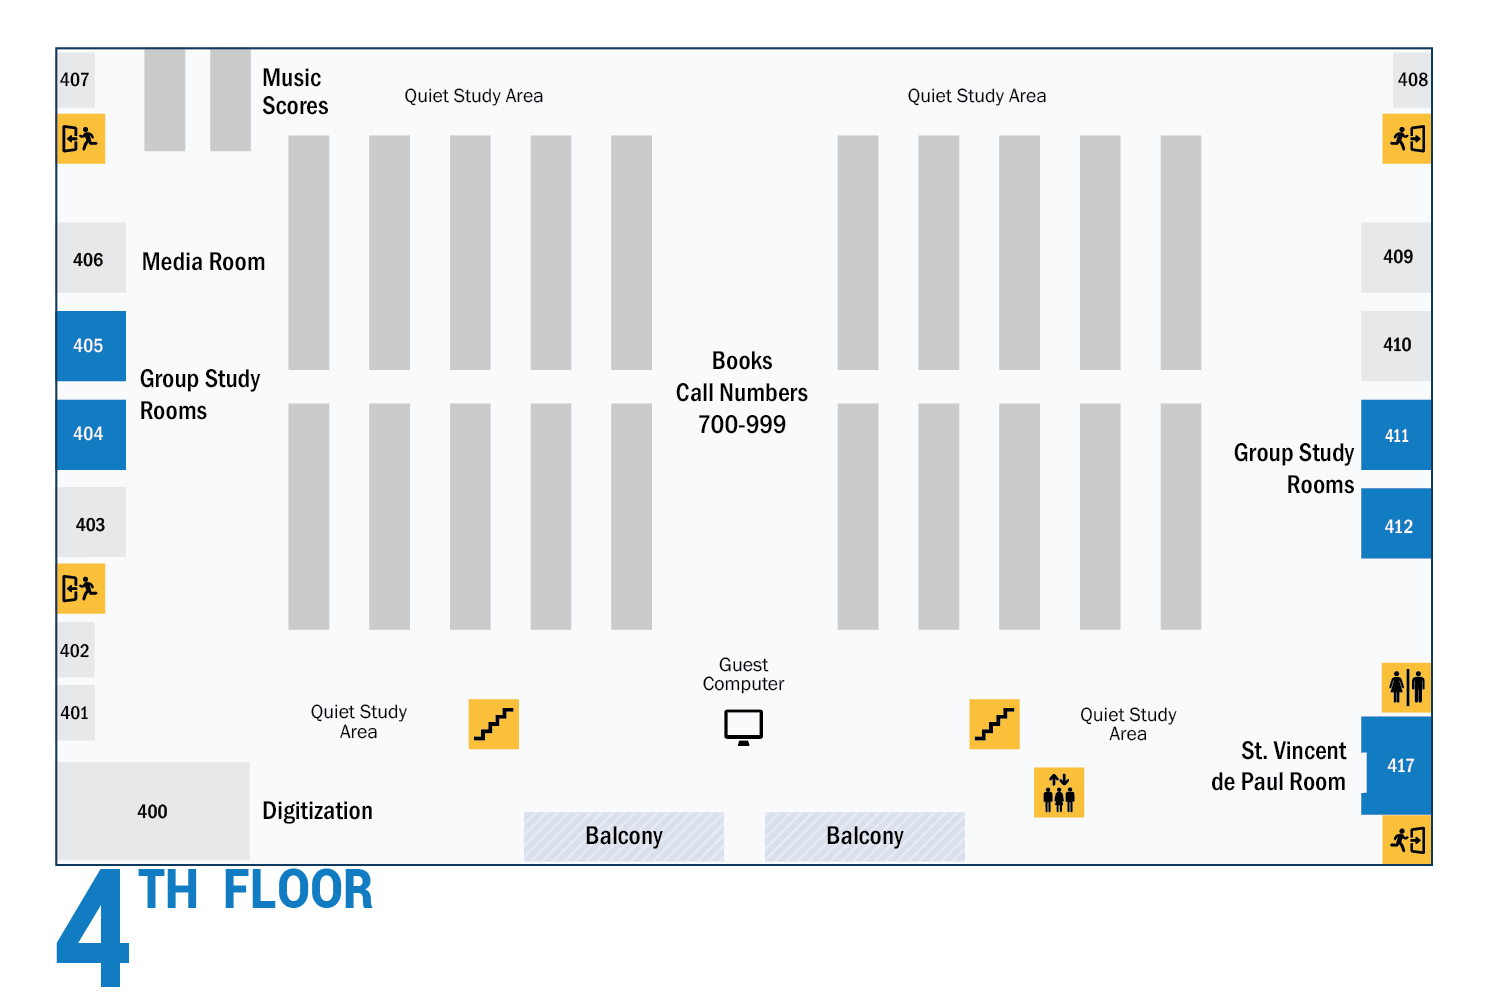
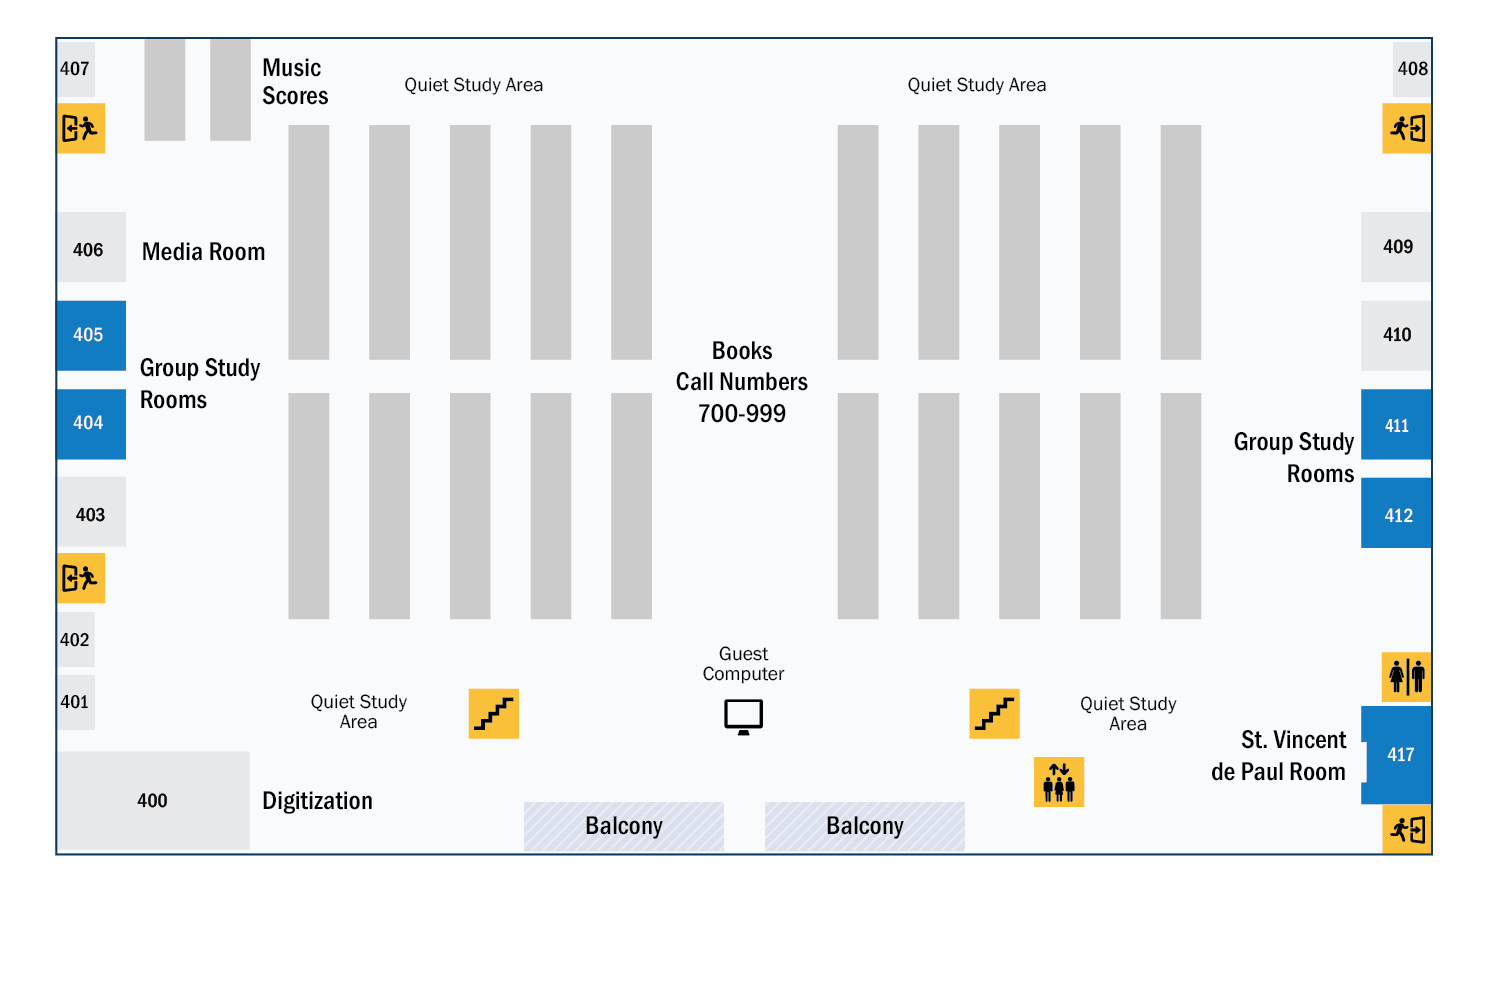
4th floor map and size

diff --git a/maps.html b/maps.html
@@ -114,8 +114,8 @@
 
 		<div class="row maps-center">
 			<div class="col-lg-6 nopadding max-maps" id="three">
-				<img src="images/maps/thirdfloor.png" width="1500" height="1080" usemap="#third" class="max-maps">
-				<img class="mapoverlay" width="1500" height="1080">
+				<img src="images/maps/thirdfloor.png" width="1500" height="1000" usemap="#third" class="max-maps">
+				<img class="mapoverlay" width="1500" height="1000">
             <map name="third" id="third">
               <area shape="rect" coords="59,766,248,860" href="#/" title="rosati" alt="Rosati Room" id="3_rosatiroom">
               <area shape="rect" coords="1248,767,1438,862" href="#/" title="specialcollections" alt="Special Collections" id="3_specialcollections">
